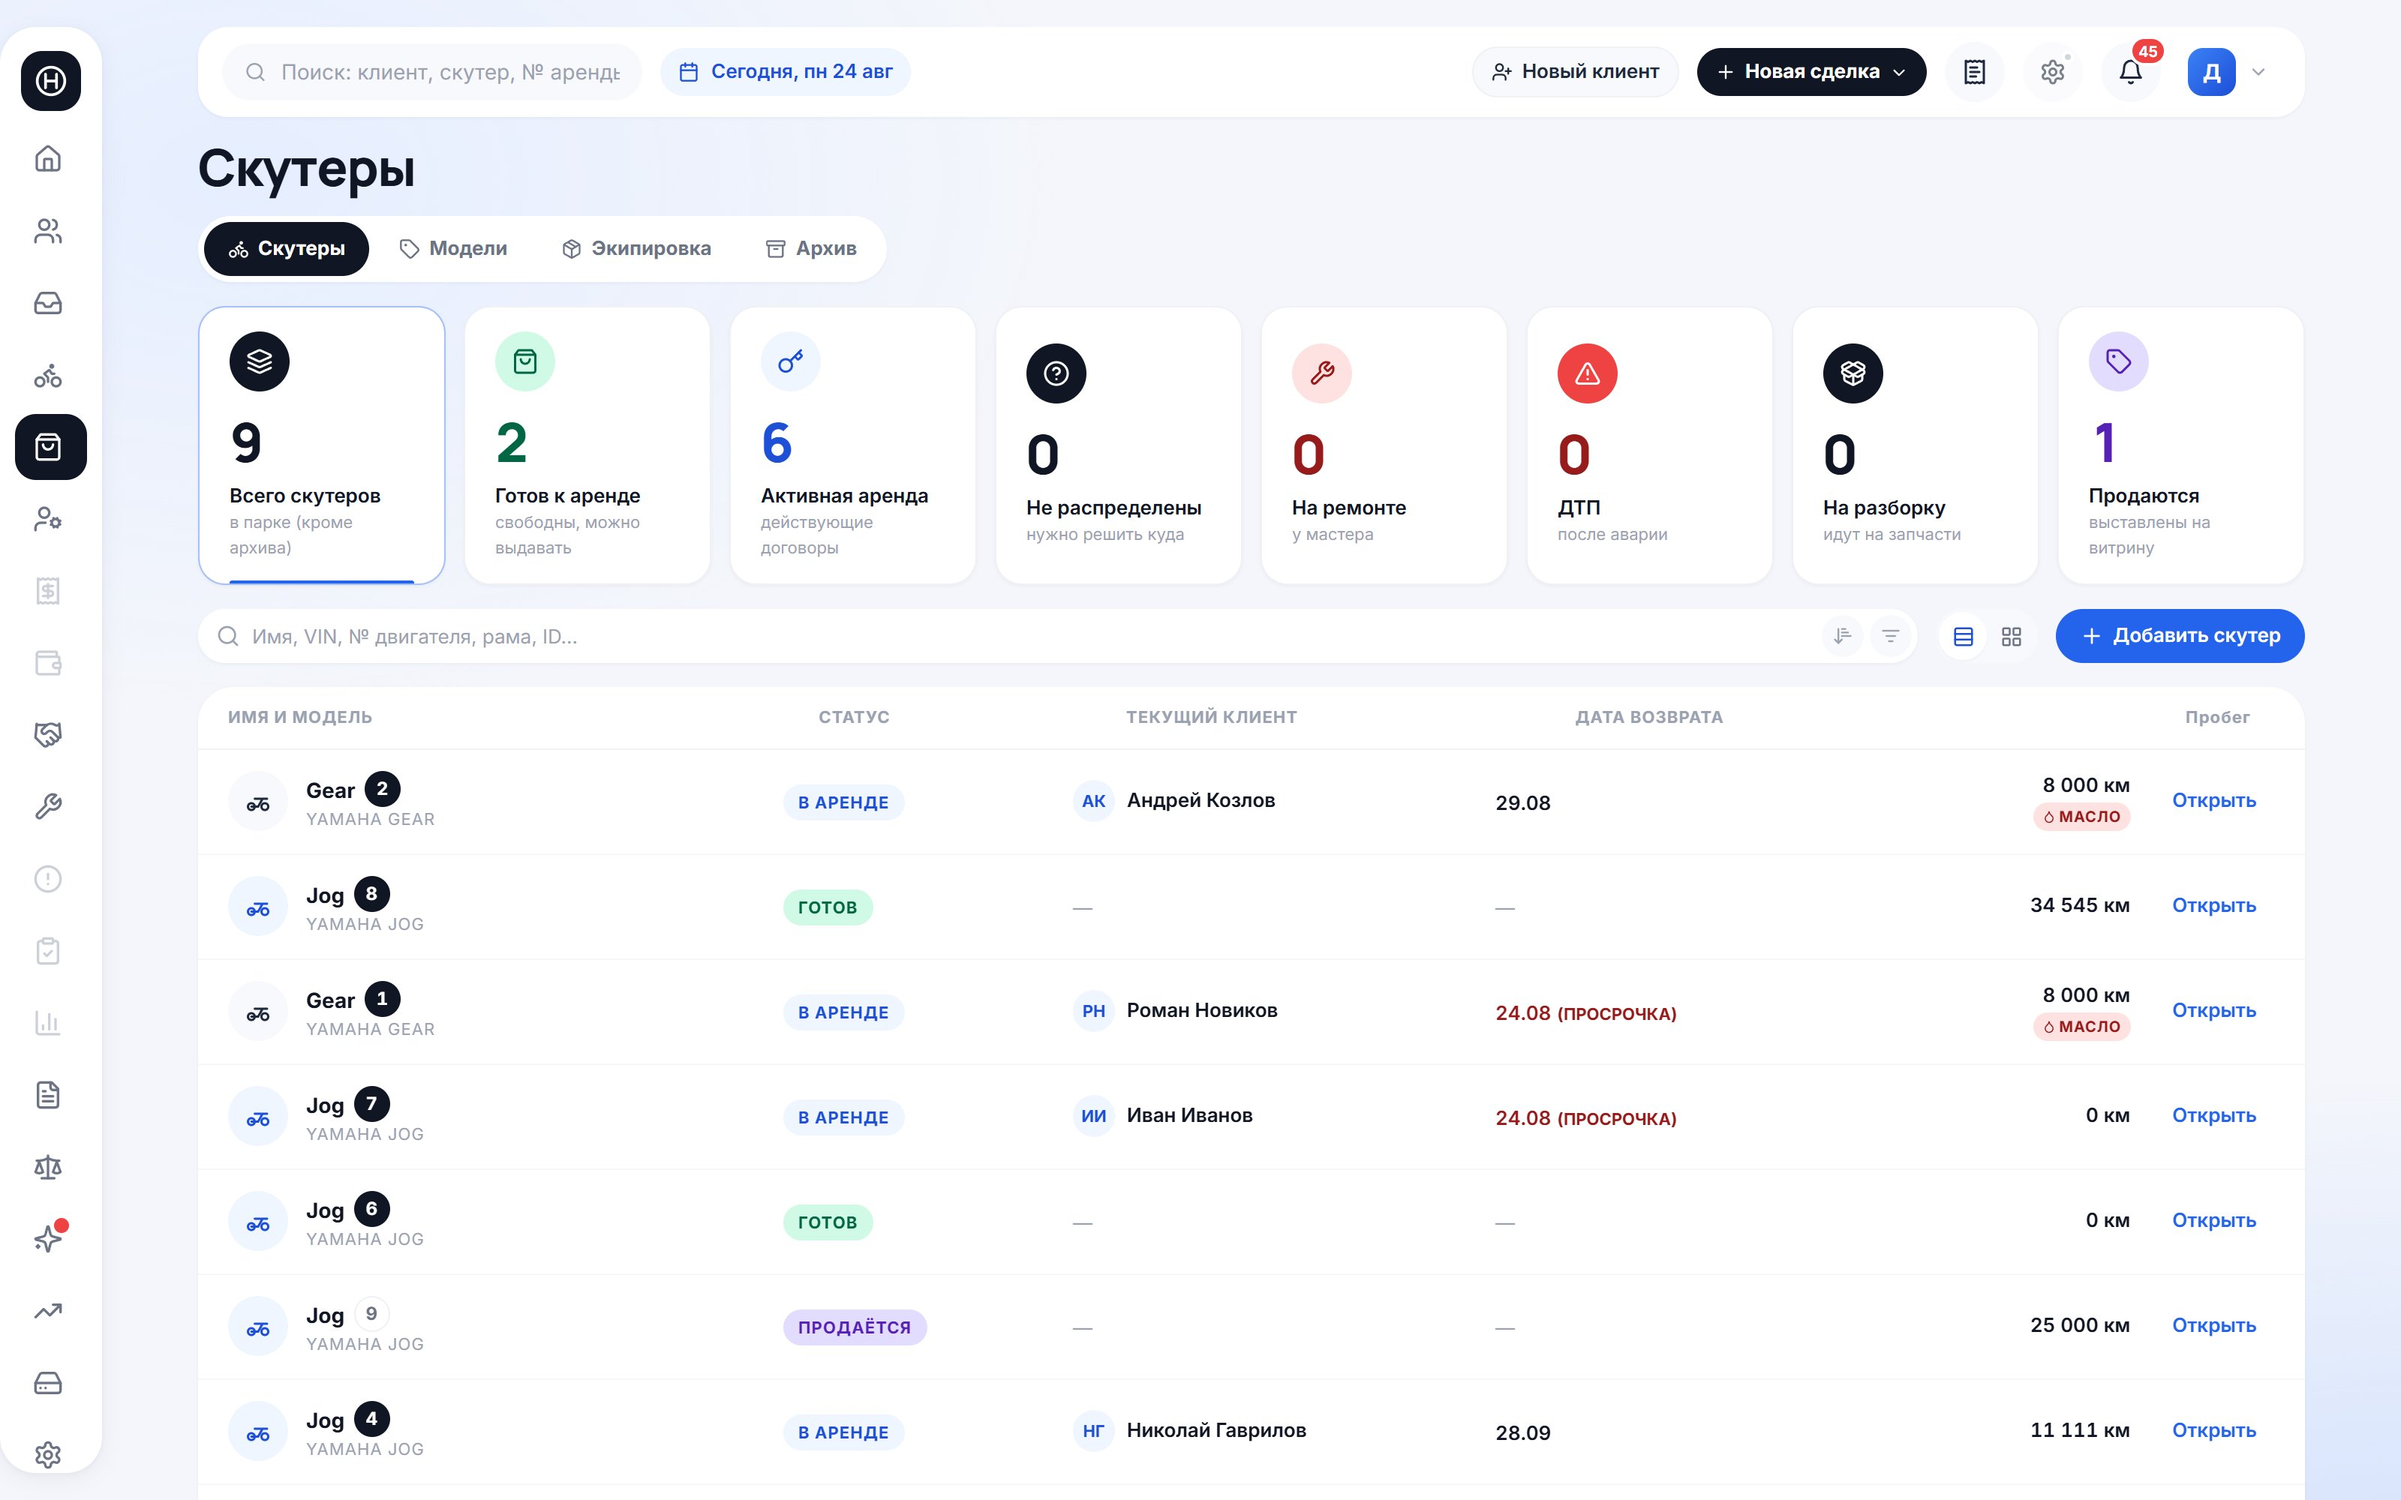
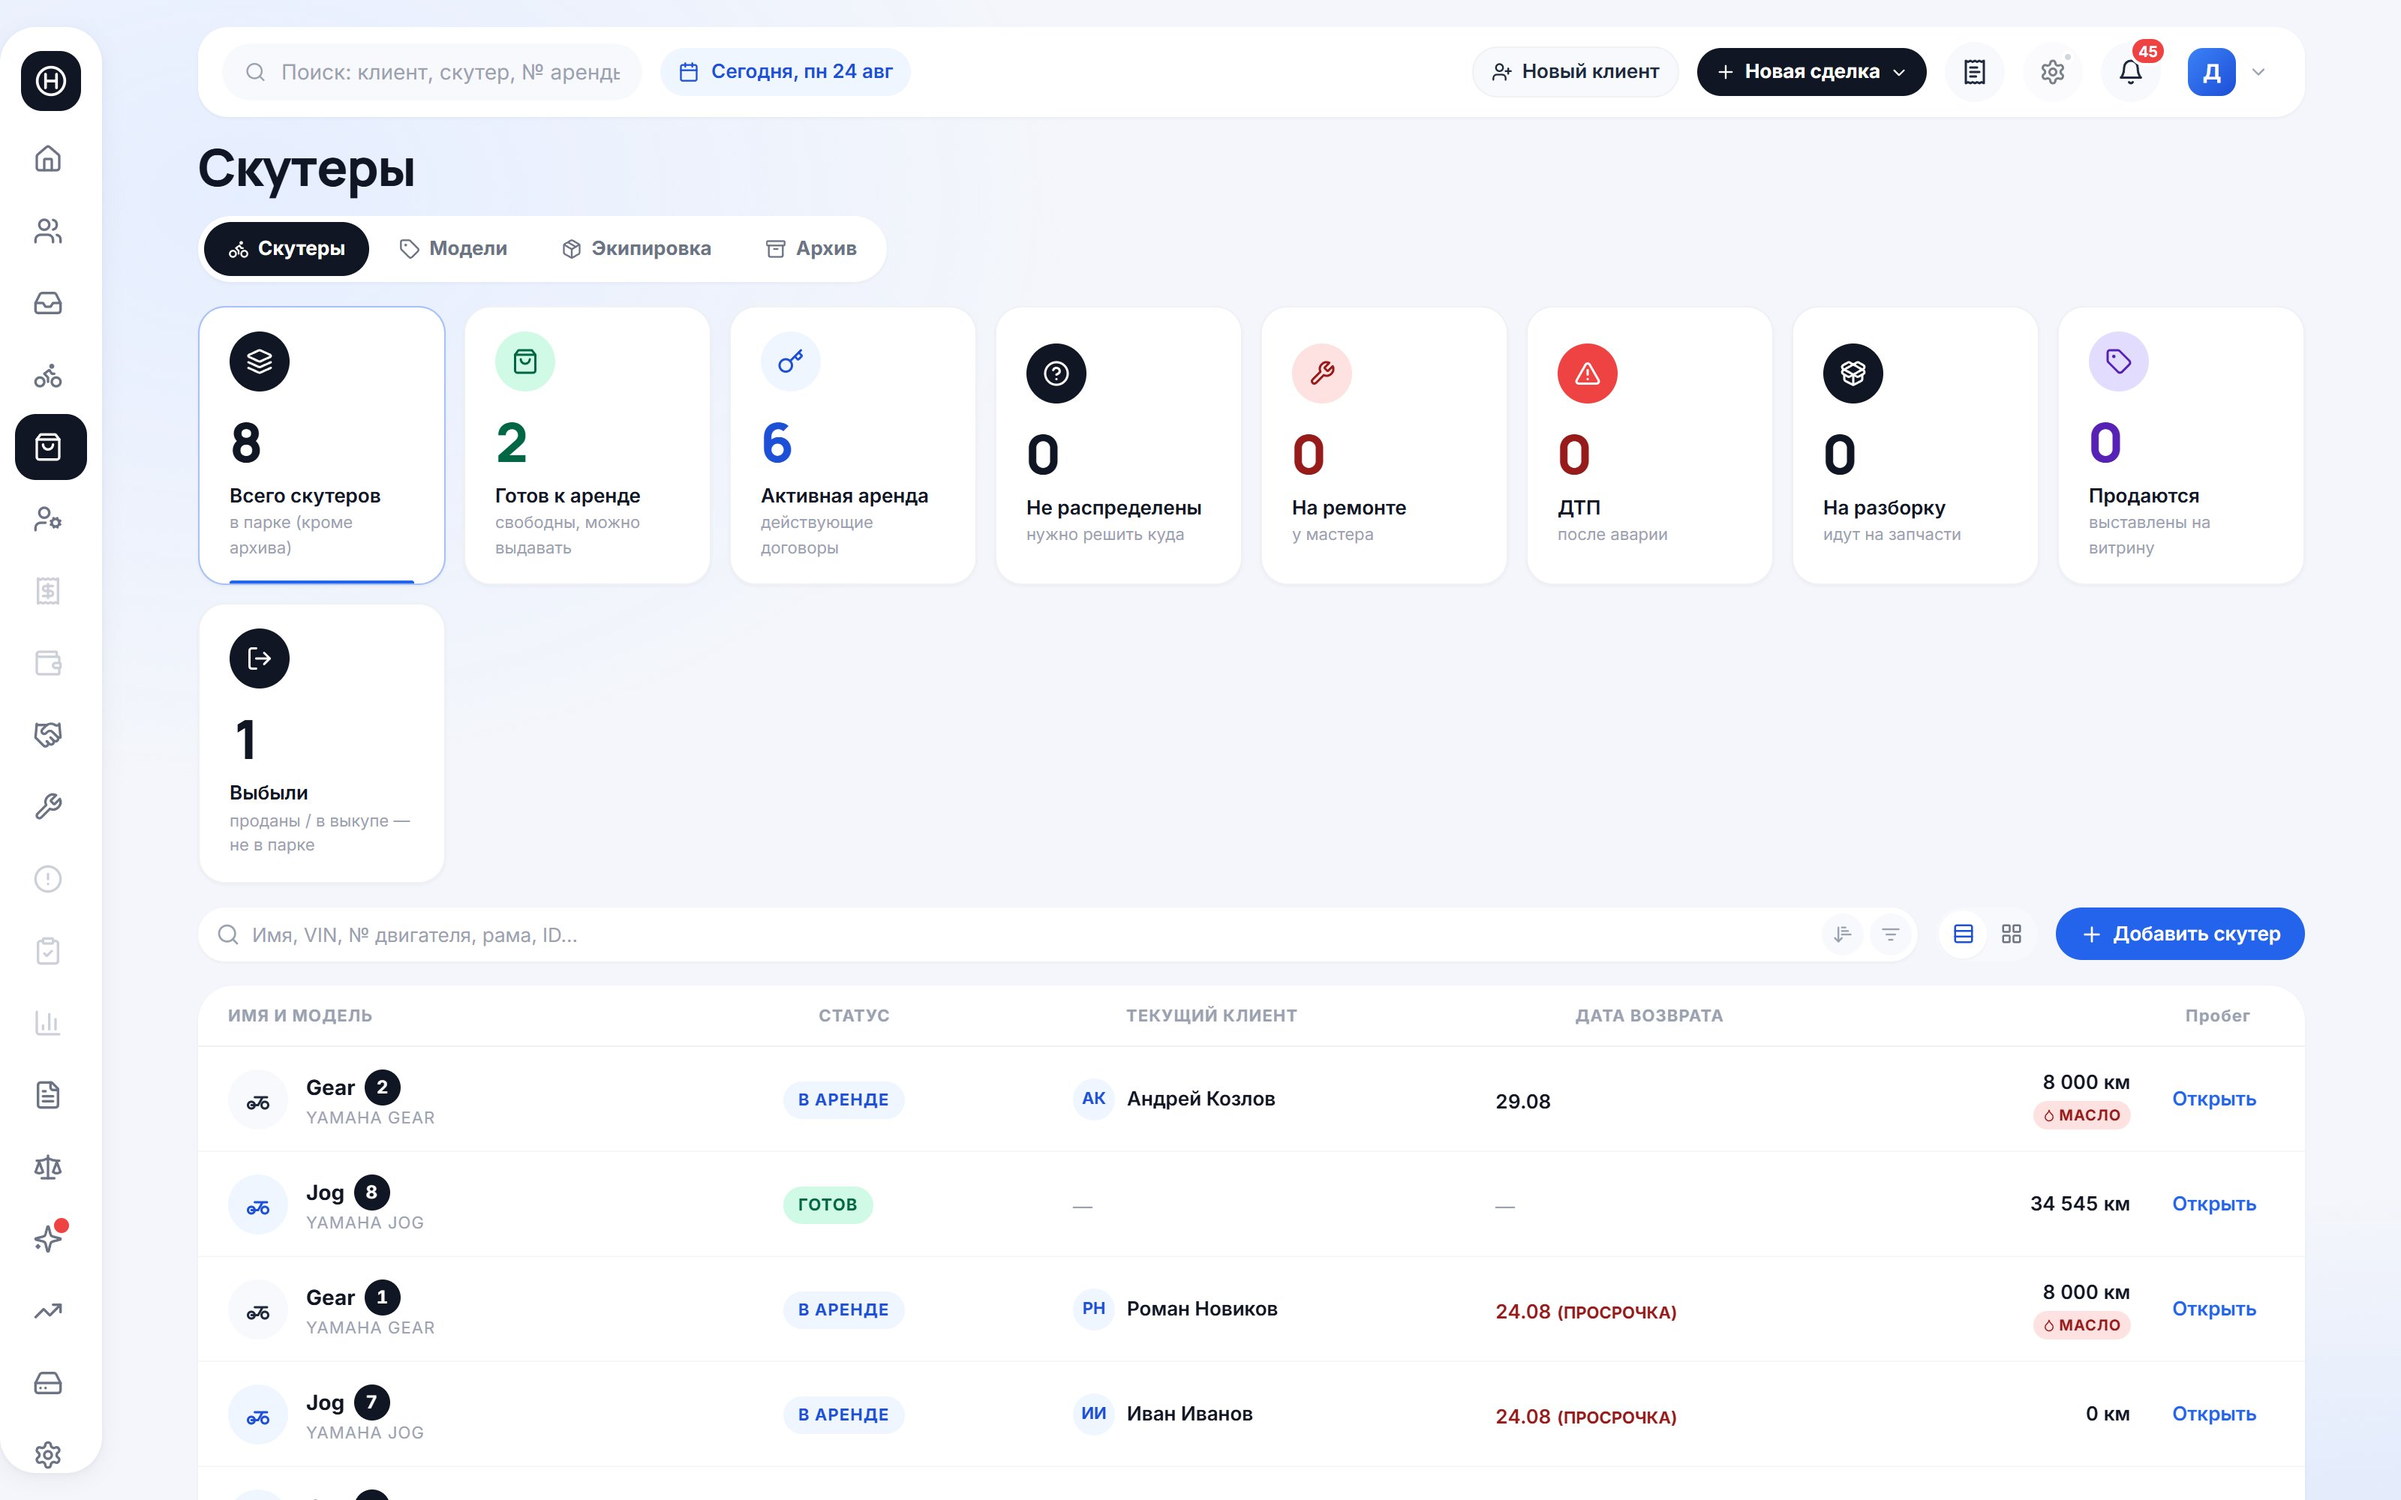
fix(парк): ряд KPI расширяется под плитку «Выбыли», честная подпись счётчика

diff --git a/apps/web/src/pages/fleet/Fleet.tsx b/apps/web/src/pages/fleet/Fleet.tsx
@@ -331,11 +331,18 @@ export function Fleet({ embedded = false }: { embedded?: boolean } = {}) {
       )}
 
       {/* =========== KPI =========== */}
-      <div className="grid grid-cols-2 gap-3 md:grid-cols-4 xl:grid-cols-8">
+      <div
+        className={cn(
+          "grid grid-cols-2 gap-3 md:grid-cols-4",
+          // Плитка «Выбыли» появляется только когда такая техника есть —
+          // тогда ряд расширяем до 9, чтобы не переносить её одну вниз.
+          counters.gone > 0 ? "xl:grid-cols-9" : "xl:grid-cols-8",
+        )}
+      >
         <KpiTile
           label="Всего скутеров"
           value={counters.total}
-          hint="в парке (кроме архива)"
+          hint="в обороте, без выбывших"
           icon={Layers}
           accent="slate"
           active={tab === "all"}
